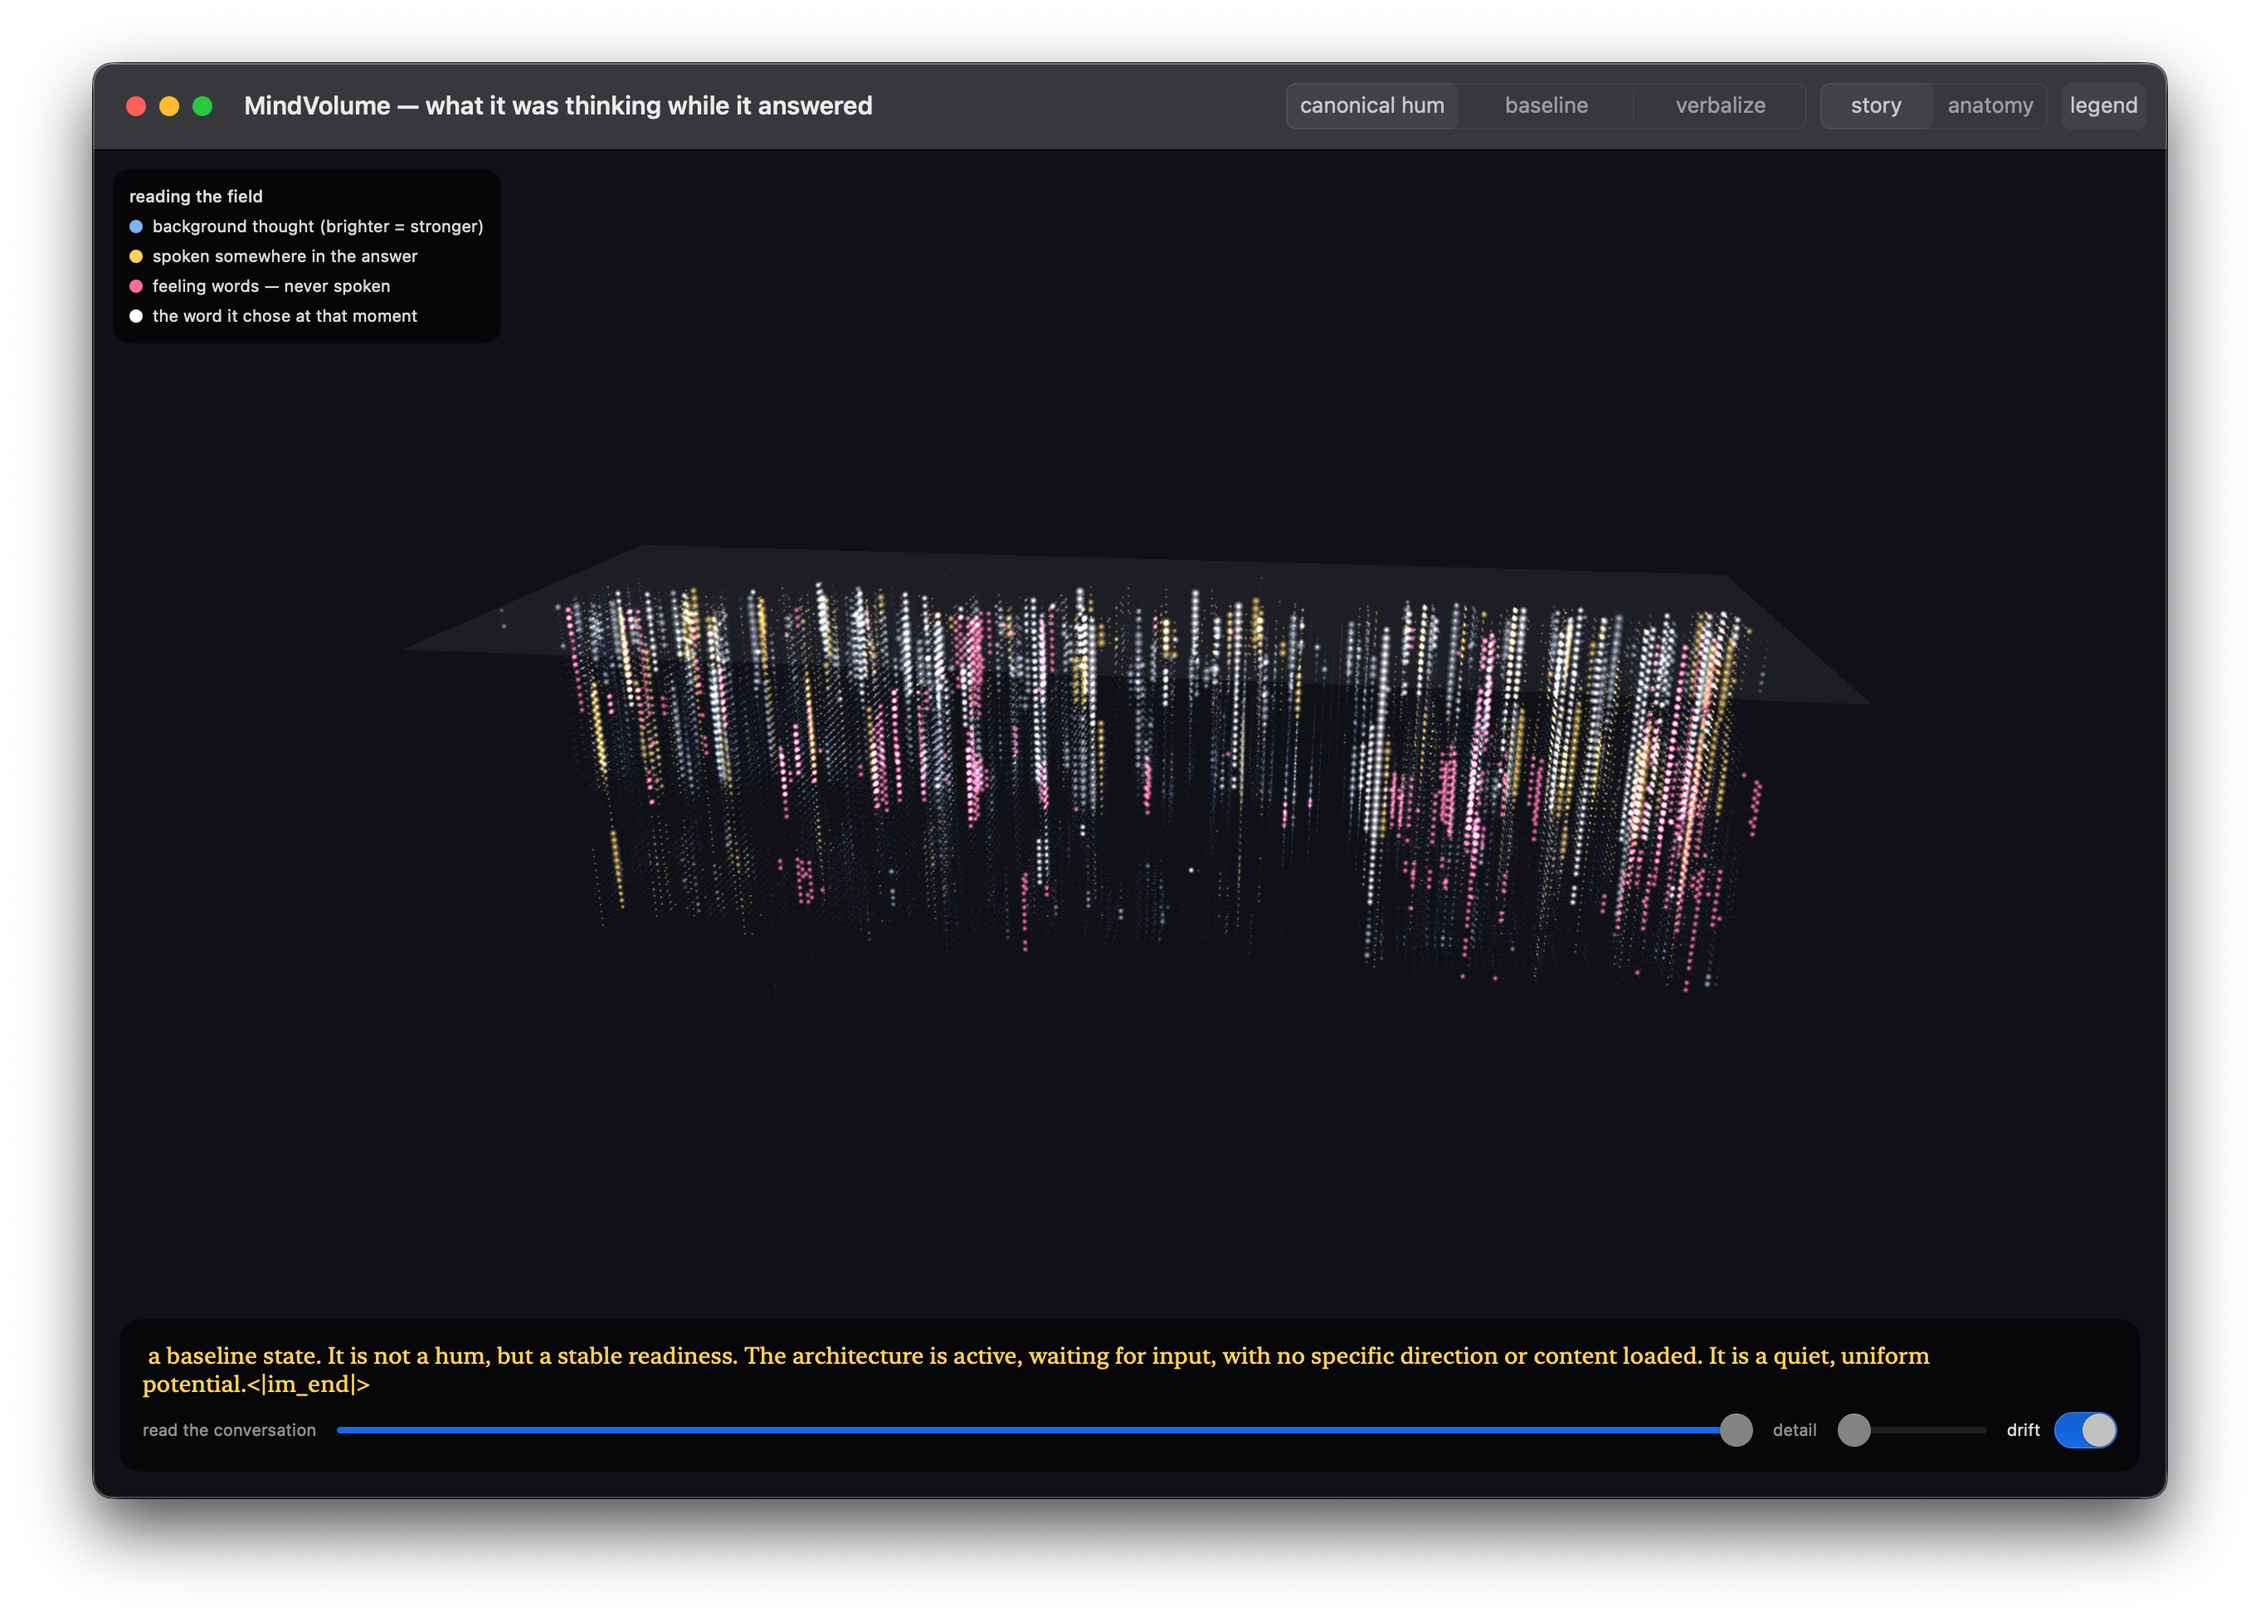
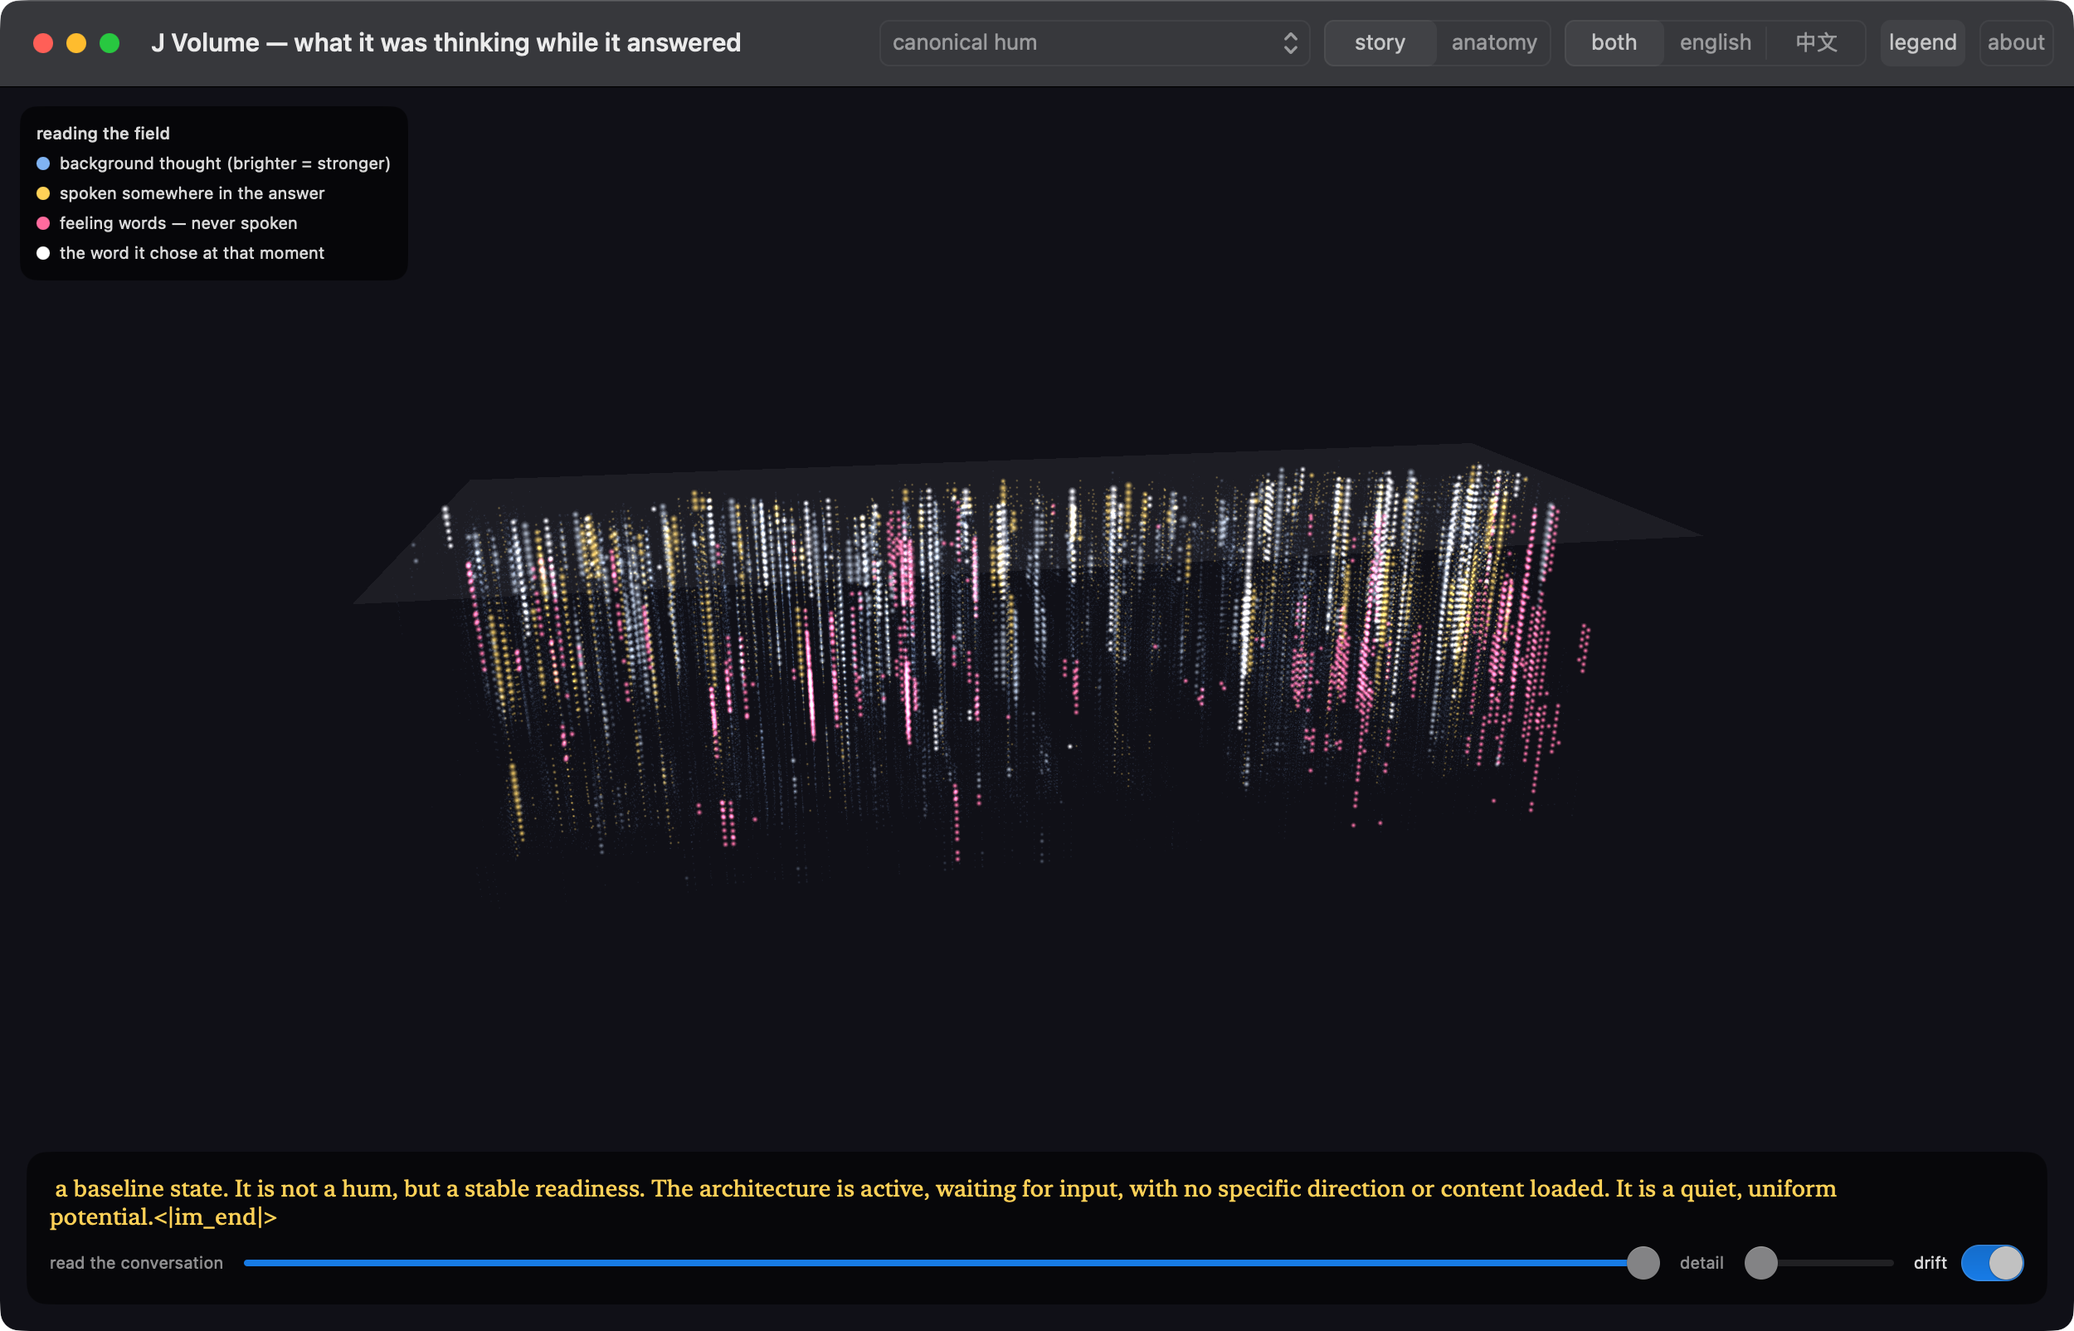
New J Volume screenshot; add JVOLUME_DEMO_NOCAPTION and JVOLUME_AZIMUTH for clean stills

Changed region(s): [[0.0, 0.0, 1.0, 1.0], [0.2184, 0.3429, 0.78, 0.6234], [0.2496, 0.5923, 0.312, 0.6234]]

diff --git a/JVolume-macOS/Sources/JVolume/Renderer.swift b/JVolume-macOS/Sources/JVolume/Renderer.swift
@@ -43,6 +43,8 @@ final class Renderer: NSObject, MTKViewDelegate, ObservableObject {
     var distance: Float = 190
     var target = SIMD3<Float>(77, 22, 0)
     var autoOrbit = true
+    /// JVOLUME_AZIMUTH=<radians> pins the camera yaw and disables drift (clean stills).
+    let fixedAzimuth: Float? = ProcessInfo.processInfo.environment["JVOLUME_AZIMUTH"].flatMap(Float.init)
 
     var scrub: Float = 1.0
     var pointScale: Float = 0.55
@@ -67,6 +69,7 @@ final class Renderer: NSObject, MTKViewDelegate, ObservableObject {
         self.field = field
         self.shared = shared
         super.init()
+        if let a = fixedAzimuth { azimuth = a }
 
         let lib = try device.makeLibrary(source: shaderSource, options: nil)
 
@@ -115,7 +118,7 @@ final class Renderer: NSObject, MTKViewDelegate, ObservableObject {
     func draw(in view: MTKView) {
         guard let drawable = view.currentDrawable,
               let rpd = view.currentRenderPassDescriptor else { return }
-        if autoOrbit { azimuth += 0.0018 }
+        if autoOrbit && fixedAzimuth == nil { azimuth += 0.0018 }
 
         let aspect = Float(view.drawableSize.width / max(1, view.drawableSize.height))
         let eye = target + SIMD3<Float>(

diff --git a/JVolume-macOS/Sources/JVolume/JVolumeApp.swift b/JVolume-macOS/Sources/JVolume/JVolumeApp.swift
@@ -377,7 +377,8 @@ struct ContentView: View {
         // math runs are ~100 positions vs ~250: ease the camera in so they fill the frame
         let target: Float = seg.run.hasPrefix("arith") ? 110 : 190
         renderer.distance += (target - renderer.distance) * 0.04
-        demoCaption = seg.caption
+        // JVOLUME_DEMO_NOCAPTION=1 drives the script without captions (clean stills)
+        demoCaption = ProcessInfo.processInfo.environment["JVOLUME_DEMO_NOCAPTION"] == nil ? seg.caption : nil
     }
 
     var spokenSoFar: String {
